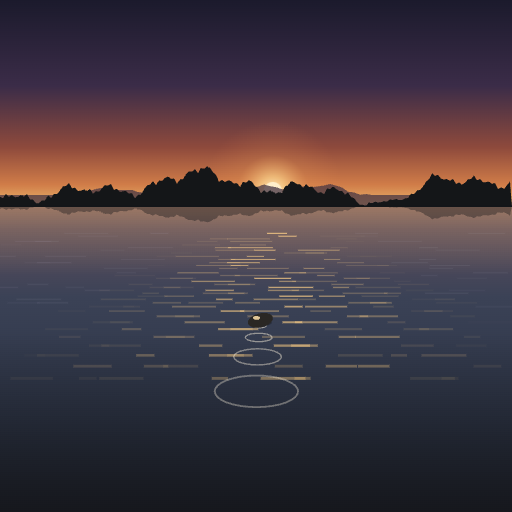
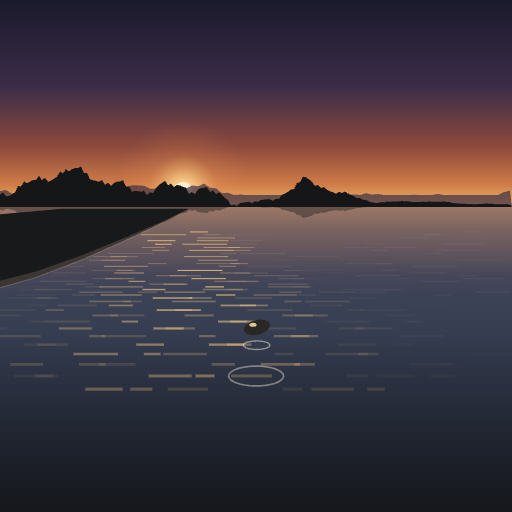
Gerplunk: the arcade tile faces the open lake
The first tile was shot at the stance a fresh save starts in, nine degrees off
centre, and in a square frame the point and its spit filled the whole left half
as a black slab. The tool squares up to the open water and holds earlier, so the
tile is the stone on the sun road with its rings opening behind it. The portal
card and the thumb carry the new stamp.

Claude-Session: https://claude.ai/code/session_01CohA1CK6e5eCWUdrKWPpuM

diff --git a/portal/index.html b/portal/index.html
@@ -1047,7 +1047,7 @@ var FEATURED = [
   {nm:"Inkswing", ds:"Grab a brass pendulum and throw it. A pen underneath draws the swing as it slowly dies, and the lengths you set hum the chord your drawing is made of. Keep the ones you love.", cat:"creative", url:"/satellites/inkswing/?v=20260906b", ic:"🖋", thumb:"/portal-assets/thumbs/inkswing.png?v=20260906b", beta:true, fresh:true},
   {nm:"Whistlestop", ds:"Snap a wooden train set together on the rug, pull the whistle, and then work the switches so three little trains all get home without meeting nose to nose.", cat:"puzzle", url:"/satellites/whistlestop/?v=20260906b", ic:"🚂", thumb:"/portal-assets/thumbs/whistlestop.png?v=20260906b", beta:true, fresh:true},
   {nm:"Strata", ds:"Brush and chisel a cliff face until a creature nobody has ever seen comes out of the stone. Every skeleton is generated once. Mount it, name it, and hang it in a museum that is only yours.", cat:"creative", url:"/satellites/strata/?v=20260906b", ic:"🦴", thumb:"/portal-assets/thumbs/strata.png?v=20260906b", beta:true, fresh:true},
-  {nm:"Gerplunk", ds:"A lake at golden hour, a stone in your hand, and one flick. Angle, speed and spin decide the skips. Count them by ear and chase the record with no clock anywhere.", cat:"action", url:"/satellites/gerplunk/?v=20260906b", ic:"🪨", thumb:"/portal-assets/thumbs/gerplunk.png?v=20260906b", beta:true, fresh:true},
+  {nm:"Gerplunk", ds:"A lake at golden hour, a stone in your hand, and one flick. Angle, speed and spin decide the skips. Count them by ear and chase the record with no clock anywhere.", cat:"action", url:"/satellites/gerplunk/?v=20260906f", ic:"🪨", thumb:"/portal-assets/thumbs/gerplunk.png?v=20260906f", beta:true, fresh:true},
   {nm:"Updraft", ds:"Go fly a kite. Hold to reel in, let go to give it line, slide to lean. Loops, dives and saves come from your thumb, the tail cracks like a ribbon, and an oak named Mabel is waiting to snag you.", cat:"action", url:"/satellites/updraft/?v=20260906a", ic:"🪁", thumb:"/portal-assets/thumbs/updraft.png?v=20260906a", beta:true, fresh:true},
   {nm:"Aura Off", ds:"A gesture duel in a public square. No words, no contact. Reference everything, repeat nothing, and never look like you are trying.", cat:"action", url:"/satellites/aura-off/?v=20260829b", ic:"🥊", thumb:"/portal-assets/thumbs/aura-off.png", beta:true, fresh:true},
   // Hashblock flagships on the workbench (2026-07-30). Both stay beta:true

diff --git a/satellites/gerplunk/index.html b/satellites/gerplunk/index.html
@@ -2529,6 +2529,10 @@ window.GERPLUNK_DEV = {
   screen: function () { return G.screen; },
   frames: function () { return G.frames; },
   yaw: function () { return yawNow(); },
+  /* the tile is staged, not stumbled into: a fresh save faces nine degrees off centre so
+     the seam is visibly bent on throw one, and at that stance the spit fills the left half
+     of a square frame. The shot tool squares up to the open lake with this. */
+  setYaw: function (deg) { G.yaw = deg; G.liveYaw = null; },
   stone: function () { return G.stoneId; },
   offer: function () { return G.offer.slice(); },
   bed: function (career) { return bedFor(G.day, career); },
